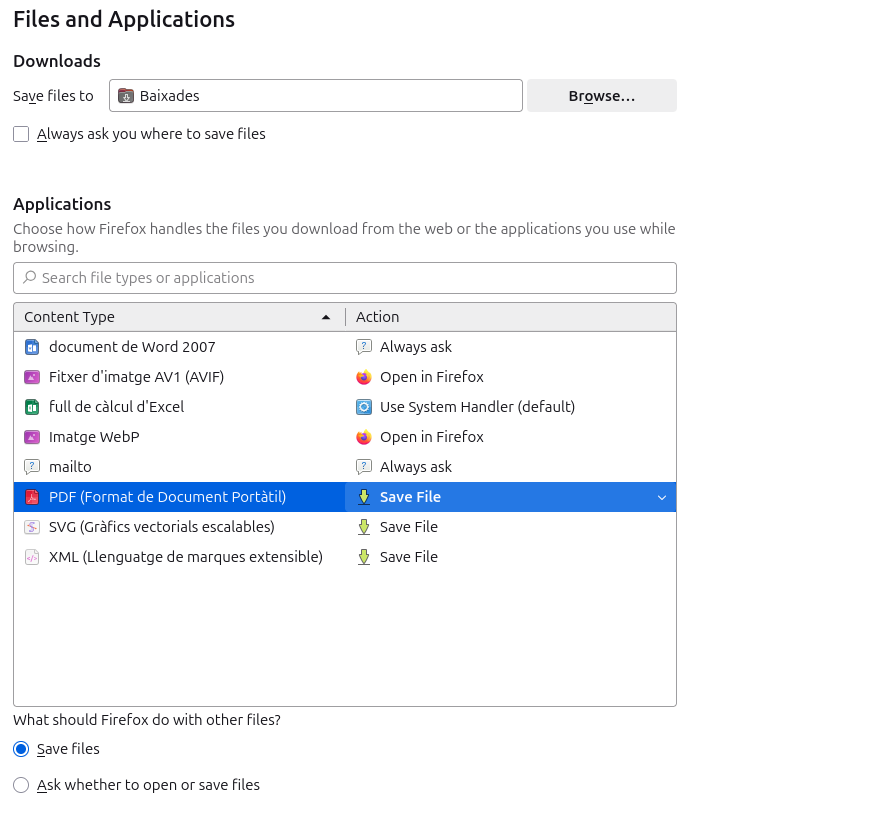
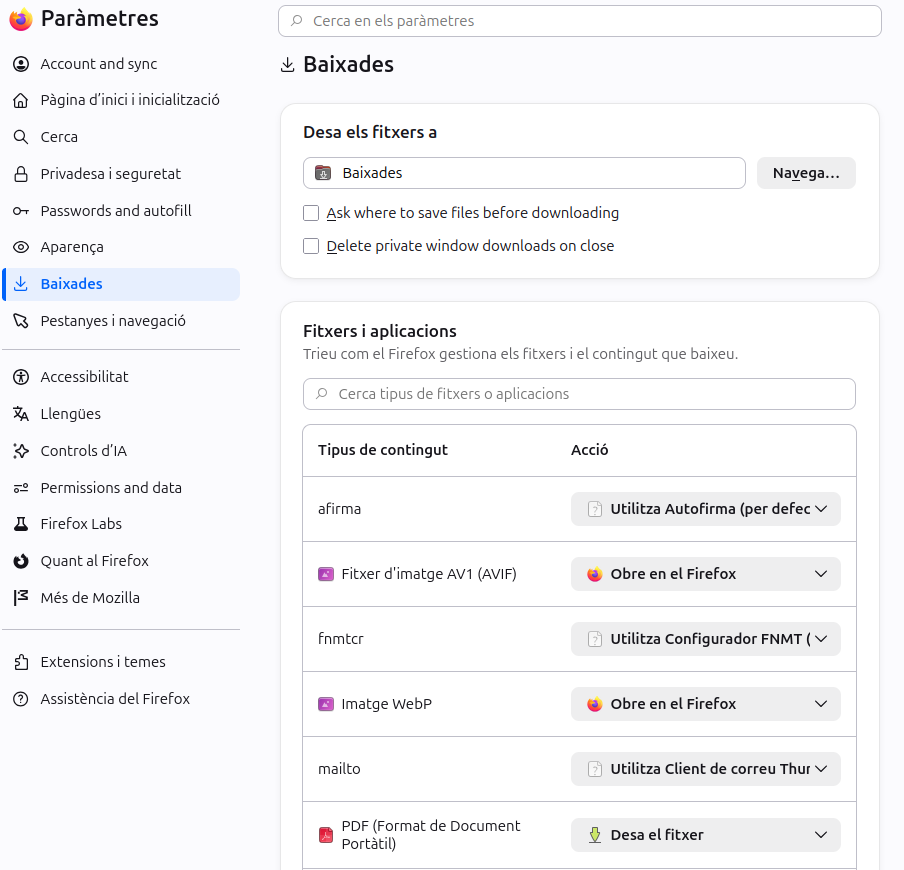
Updated settings information

diff --git a/README.md b/README.md
@@ -1,6 +1,6 @@
 # OPAL-BULK-MARKING 1.3
 
-Opal-bullk-marking is an add-on developed by [Marco Praderio Bova](https://marcopraderiobova.com/) with the goal of simplifying the downloading and uploading parts of the processes of marking submissions via Opal.
+Opal-bulk-marking is an add-on developed by [Marco Praderio Bova](https://marcopraderiobova.com/) with the goal of simplifying the downloading and uploading parts of the processes of marking submissions via Opal.
 
 Opal-bulk-marking is designed to work on a Firefox browser and will not work on any other browser.
 
@@ -23,20 +23,20 @@ The big green buttons shown in the image above have the following functions:
 
 * **Download submissions**: Makes all students visible in the assessment table and displays the configuration of buttons described in Section [Bulk download](#subsec_download).
 * **Upload marking**: Makes all students visible in the assessment table and displays the configuration of buttons described in Section [Bulk upload](#subsec_upload).
-* **Statistics**: Makes all students visible and shows a pop up with statistics regarding the submissions. These statistics are described in Section [Statistics](#subsec_statistics).
+* **Statistics**: Makes all students visible and shows a pop-up with statistics regarding the submissions. These statistics are described in Section [Statistics](#subsec_statistics).
 * **Help**: Shows a pop-up with minimal instructions on how to use opal-bulk-marking as well as a link to this page.
 
 **IMPORTANT**: In order for the buttons to appear it is necessary for the columns 'Last name', 'First name', 'Institution identifier', 'Number of files' and 'Grade' to be visible in the assessment table.
 
-**IMPORTANT**: If the opal page is set in german then opal-bulk-marking will detect this and adapt the language to german. However there is currently no support for any language other than english and german.
+**IMPORTANT**: If the opal page is set in german then opal-bulk-marking will detect this and adapt the language to german. However, there is currently no support for any language other than english and german.
 
-**IMPORTANT**: There might be some gramatical errors in the german text displayed by opal-bulk-marking. If you can find any such error please get in contact with a [mainteiner](#sec_mainteiner) so that the error can be fixed in future versions.
+**IMPORTANT**: There might be some grammatical errors in the german text displayed by opal-bulk-marking. If you can find any such error please get in contact with a [mainteiner](#sec_mainteiner) so that the error can be fixed in future versions.
 
 <a id="subsec_download"></a>
 ### Bulk download
 If you press on the 'Download submissions' button appearing in the [main page](#subsec_main) opal-bulk-marking will proceed to modifying the assessment table so that all students are visible and change the showed buttons to the ones appearing in the image below
 
-![dowload](https://github.com/PraderioM/opal-bulk-marking/blob/main/images/download.png?raw=true)
+![download](https://github.com/PraderioM/opal-bulk-marking/blob/main/images/download.png?raw=true)
 
 These buttons, text inputs and checkboxes have the following functions:
 
@@ -45,16 +45,16 @@ These buttons, text inputs and checkboxes have the following functions:
 * **prefix**: Allows you to specify a custom input that will be added at the start of all downloaded submissions. If no prefix is specified no prefix will be added. Before being added to the name of the downloaded file this prefix will be modified in the following way in order to prevent potential errors and make it easier to organize submission based on the student id:
     * The strings of the form "<id>[i]"  with "i"  ranging from 1 to 7 will be replaced by te corresponding digit in the student id.
     * All capital letters will be converted to lowercase.
-    * All accented vowels will be replaced by their non accented counterparts and the letters "ß" and "ñ" will be replaced by "ss" and "n" respectively.
+    * All accented vowels will be replaced by their non-accented counterparts and the letters "ß" and "ñ" will be replaced by "ss" and "n" respectively.
     * 
     * All remaining symbols other than letters, numbers and the punctuation signs ".", ","  and "-" will be removed.
 * **Add student name**: If selected (default) the downloaded files will be in the format "\<prefix>\_\<surname>\_\<name>\_\<student_id>\.pdf" (or "\<surname>\_\<name>\_\<student_id>\.pdf" if no prefix is specified). If not selected the downloaded files will be in the format "\<prefix>\_\<student_id>\.pdf" (or "\<student_id>\.pdf" if no prefix is specified).
-* **Start download**: Dowloads the submissions from all students in the specified range whom have submitted AT LEAST ONE file. Submissions are stored following the specified naming convention. A progressbar will appear on screen showing the download progress.
-* **Help**: Shows a pop up with minimal instructions on how to use the bulk download function of opal-bulk-marking.
+* **Start download**: Downloads the submissions from all students in the specified range whom have submitted AT LEAST ONE file. Submissions are stored following the specified naming convention. A progressbar will appear on screen showing the download progress.
+* **Help**: Shows a pop-up with minimal instructions on how to use the bulk download function of opal-bulk-marking.
 * **Back**: Goes back to the [main page](#subsec_main).
 
 
-**NOTE**: Before starting the download opal-bulk-marking will let you know if any of the submissions you are intending to download have already beenmarked and give you the option of not downloading those.
+**NOTE**: Before starting the download opal-bulk-marking will let you know if any of the submissions you are intending to download have already been marked and give you the option of not downloading those.
 
 **NOTE**: In the case of a student submitting multiple files opal-bulk-marking will download all of them and add the suffix "\_submission\_\<submission_number>".
 
@@ -74,26 +74,26 @@ These buttons and selectables have the following functions:
     * *\<integer>*: A positive integer representing the grade. For example the grade '7.0' would be written simply as '7' using this convention.
     * *\<integer>.\<decimals>*: A positive integer representing the integer part of a number followed by a dot followed by a positive integer representing the decimal part of a number. For example the grade '7.4' can be written as '7.4' using this convention.
 * **Start upload**: Starts the uploading of all selected files. More precisely opal-bulk-marking will use the name of each of the selected files in order to obtain a grade and a student. It will then look for that student in the list of all available students and upload the marked submission (renamed to 'korrektur.pdf') to its page. While doing so it will also store in the student's page the grade associated to this submission. Before starting the upload process opal-bulk-marking will show you a pop-up listing any error it might encounter (i.e. unrecognized naming conventions or non found students) and showing you the list of all students and grades that it successfully identified. The upload process will start only after you confirm the showed grades are the ones you want to upload.
-Furthermore opal-bulk-marking will detect the students whom have already been graded (if any) and ask you if you wish to replace their grade with the new one. In case of a positive answer IT WILL REMOVE all previous uploaded files and replace them with the new one.
+Furthermore, opal-bulk-marking will detect the students whom have already been graded (if any) and ask you if you wish to replace their grade with the new one. In case of a positive answer IT WILL REMOVE all previous uploaded files and replace them with the new one.
 A progressbar will appear on screen showing the upload progress.
-* **Help**: Shows a pop up with minimal instructions on how to use the bulk upload function of opal-bulk-marking.
+* **Help**: Shows a pop-up with minimal instructions on how to use the bulk upload function of opal-bulk-marking.
 * **Back**: Goes back to the [main page](#subsec_main).
 
 
-**NOTE**: In the case of attempting to upload muliple files associated to the same student opal-bulk-marking will detect the error and halt the uploadprocess.
+**NOTE**: In the case of attempting to upload multiple files associated to the same student opal-bulk-marking will detect the error and halt the upload process.
 
 **NOTE**: In the case of the student id being "0000000" (i.e. no student id appears on opal) then the submission will be matched using the student's name. This might cause issues if the student name has letters not belonging to the english alphabet.
 
 <a id="subsec_statistics"></a>
 ### Bulk statistics
-If you press on the 'Statistics' button appearing in the [main page](#subsec_main) opal-bulk-marking will proceed to modifying the assessment table so that all students are visible and show a pop up like the one appearing in the image below.
+If you press on the 'Statistics' button appearing in the [main page](#subsec_main) opal-bulk-marking will proceed to modifying the assessment table so that all students are visible and show a pop-up like the one appearing in the image below.
 
 ![statistics](https://github.com/PraderioM/opal-bulk-marking/blob/main/images/statistics.png?raw=true)
 
 This popup contains the following information:
 
 * **Histogram** showing the grade distribution. This histogram groups together all grades in the interval [n,n+1) for n=0,...,10.
-* **Average grade** wich is accompanied with its standard deviation.
+* **Average grade** which is accompanied by its standard deviation.
 * **Submission percentage**. That is the portion (as a fraction and as percentage) of enrolled students that have submitted a solution.
 * **Graded percentage**. That is the portion (as a fraction and as percentage) of submitted solutions that have been examined, graded and upload to opal.
 
@@ -116,9 +116,9 @@ In order to install the latest version of opal-bulk-marking you need to:
 <a id="sec_configuration"></a>
 ## Configuration
 The default settings of your Firefox browser might lead to a new page opening up on Firefox for every downloaded submission.
-This might be quite annoying and might interfere with the correct functioning of opal-bulk-marking add on.
-In order to fix this go to the '[preferences](about:preferences)' page of your Firefox browser. Under the 'General' tab scroll down untill you arrive to the 'Files and Applications' section and deselect the 'Always ask you where to save files' checkbox.
-Make also sure that the 'action' associated to PDF files is set to 'Save File'.
+This might be quite annoying and might interfere with the correct functioning of the opal-bulk-marking add on.
+In order to fix this go to the '[preferences](about:preferences)' page of your Firefox browser. Under the 'Downloads' tab look for 'Download files in' section (it should be the first one and deselect the 'Always ask you where to save files' checkbox.
+Under the 'Files and application' section look for the line corresponding to 'PDF (Portable Document Format)' and make sure that the 'action' associated to it is set to 'Save File'.
 
 For guidance the image below shows an example of a correct configuration.
 
